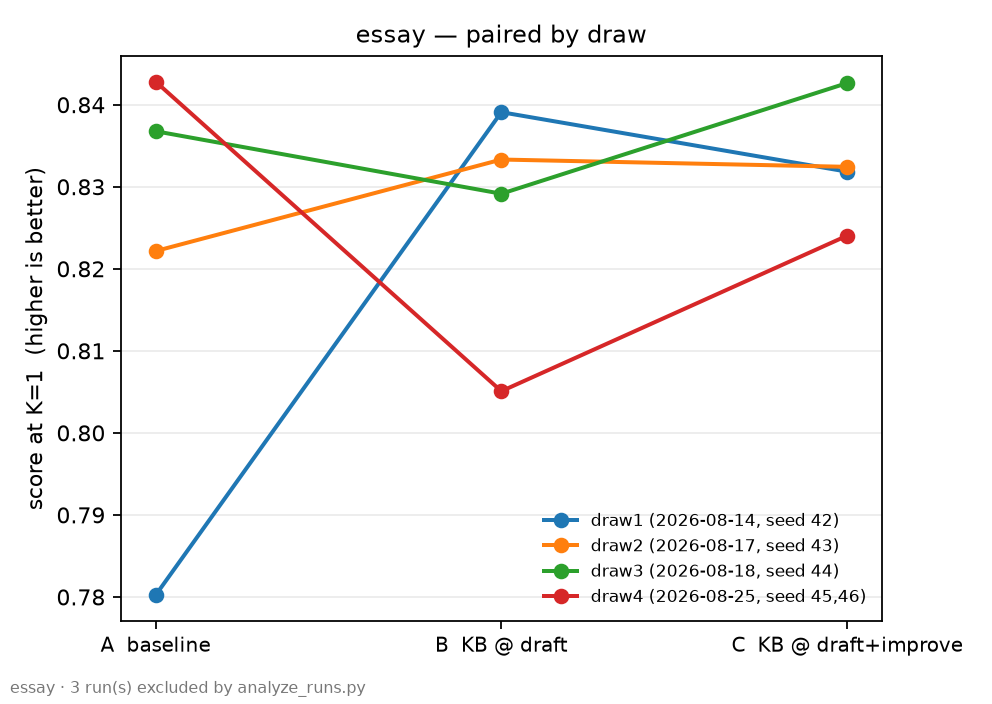
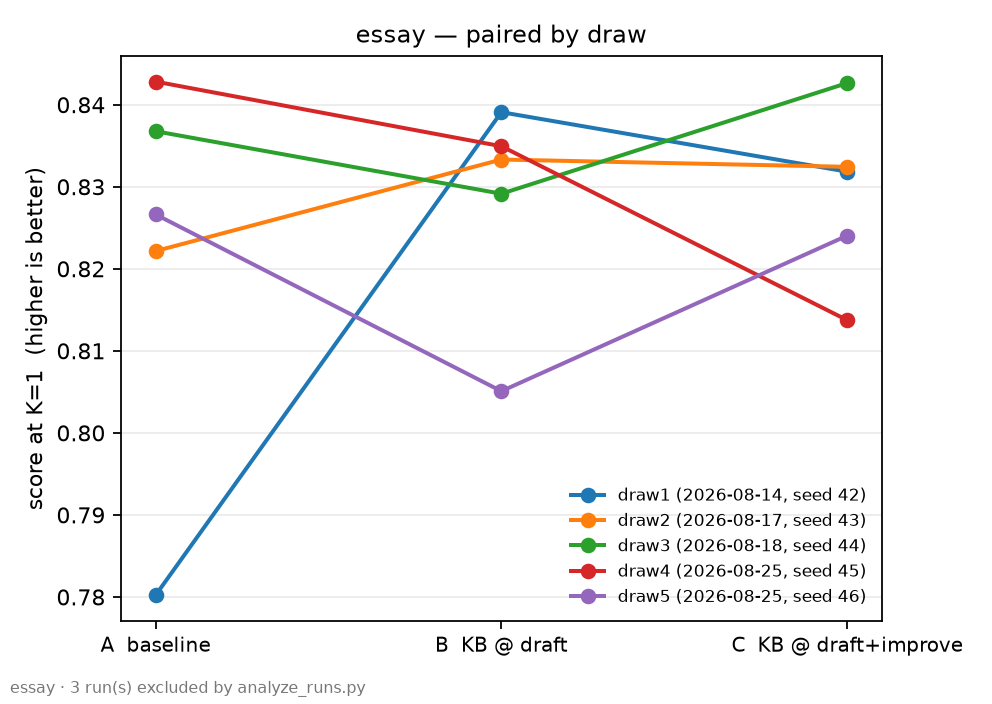
update

diff --git a/scripts/analyze_runs.py b/scripts/analyze_runs.py
@@ -527,22 +527,52 @@ class Group:
 
 
 def _cluster_draws(runs: list[Run]) -> list[Group]:
-    """Split one task's runs into launch batches by start time. See Thresholds.draw_gap_hours."""
+    """Split one task's runs into draws: a launch-time cluster AND a single seed.
+
+    Time alone is not sufficient and seed alone is not sufficient; both together are.
+
+    * Seed alone fails because `agent.seed` does not reproduce a run (see draw_gap_hours), so two
+      batches launched a week apart at seed 43 are two independent draws.
+    * Time alone fails the other way, and it did: essay seeds 45 and 46 were launched 31 minutes
+      apart, so a 2-hour window merged all six runs into one "draw". The per-arm dedup then kept
+      the latest run of each arm, silently discarding three runs AND producing a draw whose arm A
+      came from seed 45 while arms B and C came from seed 46 — a paired comparison across two
+      different experiments. Half the newest data was lost and the surviving half was wrong.
+
+    So: cluster by time, then split each cluster by seed. Two runs of the same arm surviving in
+    one draw after that really is a relaunch, and the later one wins.
+    """
     dated = sorted((r for r in runs if r.started), key=lambda r: r.started)
-    groups: list[Group] = []
+
+    # 1. time clusters
+    clusters: list[list[Run]] = []
     prev: datetime | None = None
     for r in dated:
         t = datetime.strptime(r.started, "%Y-%m-%d %H:%M:%S")
         if prev is None or (t - prev).total_seconds() / 3600 > THRESHOLDS.draw_gap_hours:
-            groups.append(Group(task=r.task, draw=len(groups) + 1,
-                                started=r.started, wiring=r.wiring))
-        g = groups[-1]
-        # Two runs of the same arm inside one batch means a relaunch; keep the later.
-        prev_run = g.arms.get(r.arm)
-        if prev_run is None or r.name > prev_run.name:
-            g.arms[r.arm] = r
+            clusters.append([])
+        clusters[-1].append(r)
         prev = t
+
+    # 2. split each cluster by seed, preserving launch order
+    groups: list[Group] = []
+    for cluster in clusters:
+        by_seed: dict[Any, list[Run]] = {}
+        for r in cluster:
+            by_seed.setdefault(r.seed, []).append(r)
+        for _, rs in sorted(by_seed.items(), key=lambda kv: rs_start(kv[1])):
+            g = Group(task=rs[0].task, draw=len(groups) + 1,
+                      started=min(r.started for r in rs), wiring=rs[0].wiring)
+            for r in rs:
+                prev_run = g.arms.get(r.arm)
+                if prev_run is None or r.name > prev_run.name:
+                    g.arms[r.arm] = r
+            groups.append(g)
     return groups
+
+
+def rs_start(rs: list[Run]) -> str:
+    return min(r.started for r in rs)
 
 
 def build_groups(runs: list[Run]) -> list[Group]:

diff --git a/UPDATELOG.md b/UPDATELOG.md
@@ -4,6 +4,119 @@ A running record of notable changes to this project. Newest entries on top.
 
 ---
 
+## 2026-08-25 — A draw is a time cluster AND a seed, not just a time cluster
+
+`_cluster_draws` grouped runs of a task purely by launch time (`draw_gap_hours = 2.0`). essay
+seeds 45 and 46 were launched **31 minutes apart**, so all six runs collapsed into one "draw".
+The per-arm dedup then kept the latest run of each arm and discarded three:
+
+| arm | kept | discarded |
+|---|---|---|
+| A | `essay-base-s45` 02:30:46 (11/37) | `essay-base-s46` 02:17:26 (3/11) |
+| B | `essay-kb-s46` 02:29:34 (4/12) | `essay-kb-s45` 01:59:47 (13/45) |
+| C | `essay-kbimp-s46` 02:30:26 (4/17) | `essay-kbimp-s45` 02:27:19 (5/25) |
+
+Half the newest data was thrown away, and the half that survived was **wrong**: the resulting draw
+paired arm A from seed 45 against arms B and C from seed 46 — a "paired" comparison spanning two
+different experiments. Arm B differs enormously between them (13/45 vs 4/12), so this was not a
+small distortion.
+
+Fixed: cluster by time, then split each cluster by seed. Neither key works alone —
+
+- **seed alone** fails because `agent.seed` does not reproduce a run, so two batches a week apart
+  at seed 43 are two independent draws (this is why the original rule ignored seed);
+- **time alone** fails in the other direction, as above.
+
+Two runs of the same arm surviving in one draw after both splits really is a relaunch, and the
+later one still wins. essay now correctly shows 5 draws (seeds 42–46), each with A, B and C.
+
+### What this changed in the results
+
+The essay C−A valid-fraction result — the one contrast in the project whose interval had excluded
+zero — **does not survive**, exactly as `job-essay-abc-s46.yaml` warned it might:
+
+| | n=3 (as reported earlier) | n=5 (corrected) |
+|---|---|---|
+| essay C−A valid fraction | **+0.265 [+0.135, +0.394]** | +0.132 [−0.100, +0.364], signs `+++--` |
+
+What stands in its place is narrower and needs its own caveat:
+
+    essay B-A valid COUNT   n=5  +2.800  [+0.109, +5.491]  +++++   CI excludes zero
+    essay B-A valid FRAC    n=5  +0.137  [-0.094, +0.367]  ++--+   contains zero
+
+The KB arm produces about three more valid solutions per run, positive in 5 of 5 draws — but not
+at a higher *rate*, because it also runs more nodes (120 vs 103 across the five draws). "More
+valid solutions" and "code more likely to run" are different claims and only the first is
+supported. Separating them needs an analysis change (normalise by compute), not more runs.
+
+---
+
+## 2026-08-25 — Record the KB's composition at the start of every run
+
+New `MLEvolve/engine/coldstart/kb_snapshot.py`, called from `build_guidance_description`, writes
+`<run>/logs/kb_snapshot.json`: which venues and years were in the abstract index and how many
+papers each contributed, how many papers had extracted methodology per venue, the index
+manifest's identity (embedding model, dim, count), and a `digest` over all of it.
+
+### The gap it closes
+
+`injected_knowledge.md` records what a run *received*. Nothing recorded what it *could have*
+received. Two runs can be handed byte-identical techniques while the corpus underneath differs,
+and that is unnoticeable from the run directory.
+
+Worse, it is unrecoverable after the fact. Checking the repo:
+
+| artifact | versioned? |
+|---|---|
+| `output/` (paper corpus) | yes — 23,589 files in git |
+| `methodology_kb/` | yes — 243 files in git |
+| **`output/abstract_index/`** | **no — zero files tracked** |
+
+The one artifact retrieval actually queries is the one with no history. And `methodology_kb`
+*grows during normal operation*, because lazy mode caches on-demand extractions back into it, so
+even the tracked part does not reflect what any past run saw on the cluster — only one commit
+touched `output/` or `methodology_kb/` in the whole 2026-08-01…08-26 experiment window, while the
+PVC copy changed continuously. Cold start is the only point where this is both cheap and certain.
+
+Retroactive reconstruction was considered and rejected: the index has no history, and the existing
+per-run injection digest is stronger evidence for the question it can answer (it already proved
+essay's injected text was byte-identical from 08-14 to 08-25, and caught the one case where it
+was not).
+
+### Two semantics that would otherwise be misread, so they are stated in the file itself
+
+- **The snapshot is the state BEFORE the run's own extractions.** Lazy mode writes into
+  `methodology_kb` as it goes, so the end-of-run directory will not match. That is intended — it
+  describes the pool the run started from — but the file embeds a `note` saying so, because
+  anyone diffing the two will otherwise conclude the snapshot is broken.
+- **Arms of one draw can legitimately differ.** `methodology_kb` is shared mutable state, so an
+  arm launched later sees what earlier arms just cached. Comparing digests across arms is a real
+  check, not a formality: that is exactly what invalidated the essay seed-42 draw.
+
+### Design details
+
+- `digest` covers corpus composition and index identity only, deliberately **excluding**
+  `captured_at`, so two runs over an unchanged corpus produce the same digest. Verified: repeated
+  snapshots match, and adding one extracted paper changes it.
+- Called **outside** the `if methodology_text` branch. A run that retrieved nothing is exactly the
+  case where knowing which venues were in the pool matters most.
+- Arm A writes **no file** (no KB paths configured), so absence unambiguously means "no knowledge
+  base". A *failed* snapshot writes a file containing `"error"` instead, so the two cannot be
+  confused.
+- `methodology_kb/paperinsight/` is excluded from venue counting — it is cross-paper synthesis,
+  not a venue.
+- Never raises. Verified against five cases: normal arm, arm A, repeat-same-corpus, corpus-grew,
+  and missing index directory (writes a partial rather than crashing).
+
+Added to `fetch-run.sh`'s download list. `utils/verify_kb_injection.py` still passes.
+
+**Incidental finding this immediately surfaced:** only **5** venues are actually built
+(aaai / acl / icml / naacl / neurips, all 2024; 23,166 papers). The README claimed 8 supported
+conferences — cvpr, iccv and iclr have never been built. That is the kind of drift this record
+exists to catch.
+
+---
+
 ## 2026-08-23 — Process figures: what the search did, not what it scored
 
 `<task>_process.png`, one panel per metric, paired differences per contrast:

diff --git a/results/8.25/charts/summary.md b/results/8.25/charts/summary.md
@@ -4,17 +4,17 @@ Scores are graded against mle-bench private answers (`MLEvolve/utils/grade_all.p
 
 ## essay
 
-4 usable draw(s), compared at K=1. 3 run(s) excluded.
+5 usable draw(s), compared at K=1. 3 run(s) excluded.
 
 | contrast | n | mean | 95% CI | signs | verdict |
 |---|---:|---:|---|---|---|
-| B-A | 4 | +0.00617 | [-0.05827, +0.07061] | ++-- | **CI contains zero — no detectable effect** |
-| C-A | 4 | +0.01225 | [-0.03421, +0.05871] | +++- | **CI contains zero — no detectable effect** |
-| C-B | 4 | +0.00608 | [-0.01334, +0.02550] | --++ | **CI contains zero — no detectable effect** |
+| B-A | 5 | +0.00660 | [-0.03246, +0.04565] | ++--- | **CI contains zero — no detectable effect** |
+| C-A | 5 | +0.00722 | [-0.02896, +0.04340] | +++-- | **CI contains zero — no detectable effect** |
+| C-B | 5 | +0.00062 | [-0.01942, +0.02066] | --+-+ | **CI contains zero — no detectable effect** |
 
-- `B-A`: to detect 0.005 at ~80% power needs **525 draws** (12599 GPU-hours at 12 h/run, 2 arms).
-- `C-A`: to detect 0.005 at ~80% power needs **273 draws** (6549 GPU-hours at 12 h/run, 2 arms).
-- `C-B`: to detect 0.005 at ~80% power needs **48 draws** (1145 GPU-hours at 12 h/run, 2 arms).
+- `B-A`: to detect 0.005 at ~80% power needs **317 draws** (7600 GPU-hours at 12 h/run, 2 arms).
+- `C-A`: to detect 0.005 at ~80% power needs **272 draws** (6523 GPU-hours at 12 h/run, 2 arms).
+- `C-B`: to detect 0.005 at ~80% power needs **83 draws** (2001 GPU-hours at 12 h/run, 2 arms).
 
 ## jigsaw
 
